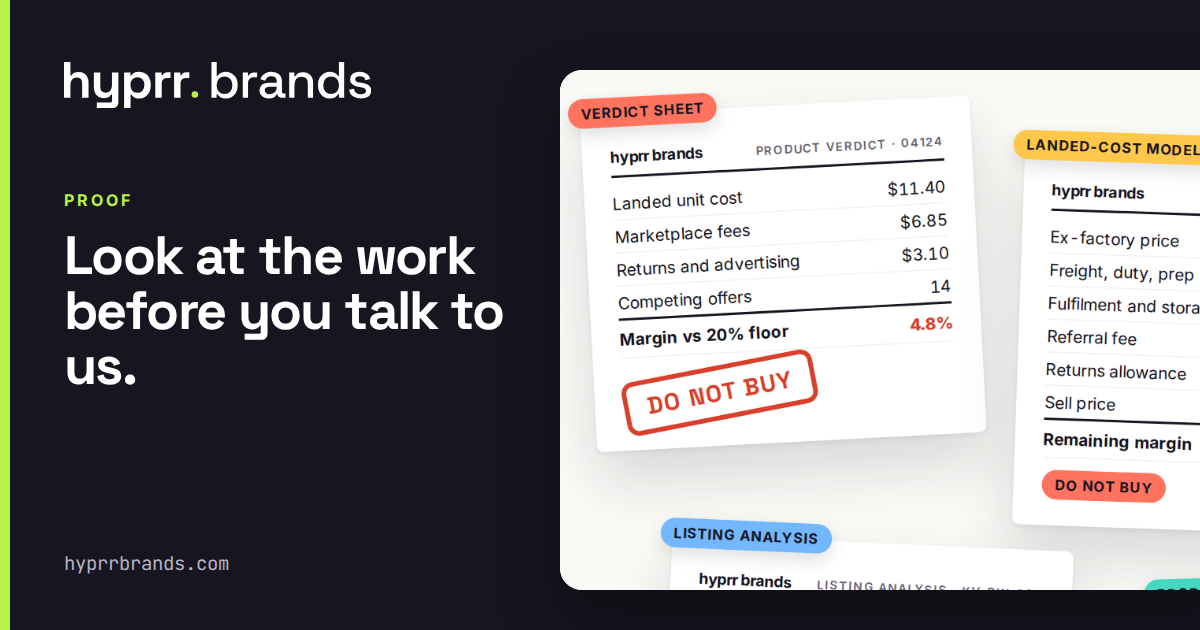
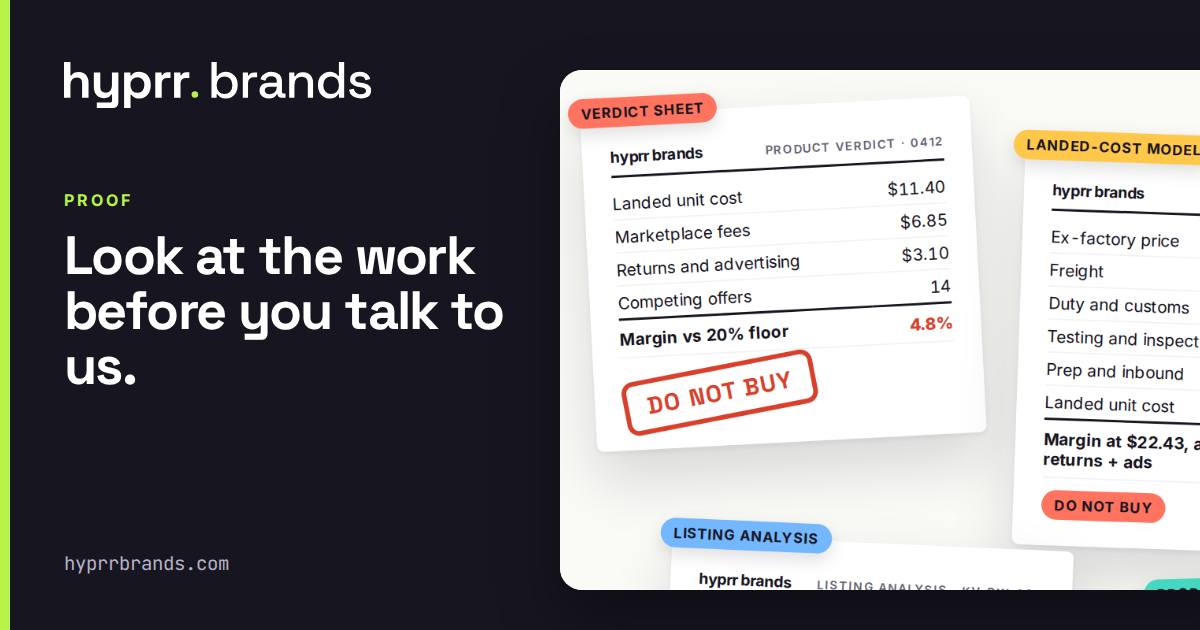
PROMPT_27 copy patch + PROMPT_28 OG swap
PROMPT_27: selection test 01 no longer declines children's products,
supplements or cosmetics outright (the compliance matrix is right);
/about track record says "since 2010" instead of a year count.
PROMPT_28: the five OG cards that differed from the swap folder
replaced (home, proof, PPC, management, wholesale — v2 logo, candidate
0412 / line 04128, updated titles). The other five were already
byte-identical. The zip's "-compliance-gates" file is the private
label card and matches the page's primary og-amazon-private-label.png;
the 2400×1500 compliance-gates master stays as the second image.

diff --git a/app/amazon-private-label/page.tsx b/app/amazon-private-label/page.tsx
@@ -66,7 +66,9 @@ const FAQS = [
 const SELECTION_TESTS = [
   {
     title: "The category has to be one we will take",
-    body: "Some categories we decline outright: ingestibles and topicals, children's products and toys, electricals needing safety certification, medical devices, and anything making a health or safety claim. The compliance and liability load is not worth it for a first brand.",
+    // PROMPT_27 §1: the compliance matrix is right; this body replaced the
+    // "decline outright" version that contradicted it.
+    body: "Regulated categories go ahead only when the certification is real and budgeted before production: children's products and toys, supplements, cosmetics, certified electricals. Anything needing FDA drug approval or medical device clearance we decline, along with claims we could not substantiate. If the testing budget is not in the plan, the answer is no.",
   },
   {
     title: "The niche has to be enterable",

diff --git a/app/about/page.tsx b/app/about/page.tsx
@@ -85,11 +85,11 @@ export default function Page() {
           <div className="sec-head">
             <div>
               <div className="kicker">Track record</div>
-              <h2>Fifteen years of ecommerce work.</h2>
+              <h2>Ecommerce work since 2010.</h2>
             </div>
             <p>
-              Fifteen years of ecommerce work, most of it delivered for clients
-              who found us through someone they trust. The public record is one
+              Ecommerce work since 2010, most of it delivered for clients who
+              found us through someone they trust. The public record is one
               click away: over 13,000 client hours on Upwork, and operating in
               ecommerce since 2010.
             </p>
